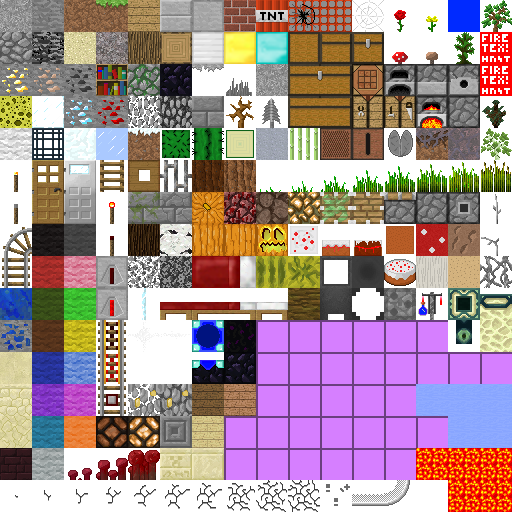
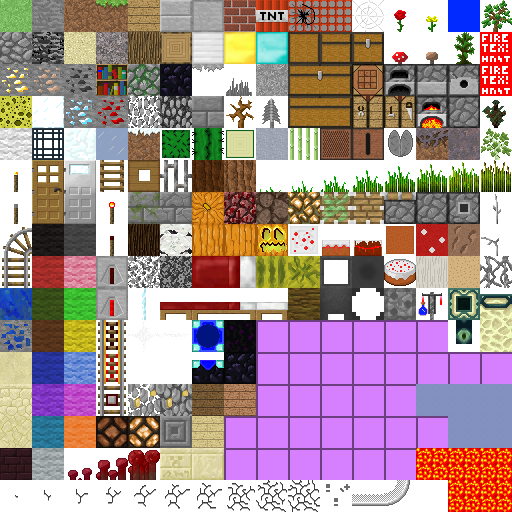
pruce it up, hey

Changed region(s): [[0.8125, 0.75, 1.0, 0.875], [0.1875, 0.25, 0.25, 0.3125], [0.0, 0.0, 0.0625, 0.0625]]

diff --git a/src/main.js b/src/main.js
@@ -1,6 +1,6 @@
 import GridAxisShader from "../shaders/GridAxisShader.js";
 import SkyboxShader from "../shaders/SkyboxShader.js";
-import FogShader from "../shaders/FogShader.js";
+import VoxelShader from "../shaders/VoxelShader.js";
 
 import CameraController from "../controls/CameraController.js";
 import KeyboardControls from "../controls/KeyboardControls.js";
@@ -28,7 +28,7 @@ const controls = {
 };
 
 // Shaders
-const fogShader = new FogShader(gl, camera.projectionMatrix);
+const voxelShader = new VoxelShader(gl, camera.projectionMatrix);
 const gridAxis = GridAxis.create(gl);
 const gridShader = new GridAxisShader(gl, camera.projectionMatrix);
 const skybox = Cube.create(gl, "Skybox", 300, 300, 300);
@@ -57,12 +57,12 @@ function preload() {
   return Promise.all(
     [
       { name: "blocks", src: "res/mine.png", type: "tex" },
-      { name: "cube0", src: "res/whirlpool_rt.png", type: "img" },
-      { name: "cube1", src: "res/whirlpool_lf.png", type: "img" },
-      { name: "cube2", src: "res/whirlpool_up.png", type: "img" },
-      { name: "cube3", src: "res/whirlpool_dn.png", type: "img" },
-      { name: "cube4", src: "res/whirlpool_bk.png", type: "img" },
-      { name: "cube5", src: "res/whirlpool_ft.png", type: "img" }
+      { name: "cube0", src: "res/mc_rt.png", type: "img" },
+      { name: "cube1", src: "res/mc_lf.png", type: "img" },
+      { name: "cube2", src: "res/mc_up.png", type: "img" },
+      { name: "cube3", src: "res/mc_dn.png", type: "img" },
+      { name: "cube4", src: "res/mc_bk.png", type: "img" },
+      { name: "cube5", src: "res/mc_ft.png", type: "img" }
     ].map(
       ({ name, src, type }) =>
         new Promise(res => {
@@ -87,7 +87,7 @@ function initialize(res) {
   const cubeImg = imgs.filter(i => i.name.startsWith("cube")).map(i => i.img);
   glUtils.loadCubeMap(gl, "skybox", cubeImg);
   skyboxShader.setCube(glUtils.textures.skybox);
-  fogShader.setTexture(glUtils.textures.blocks);
+  voxelShader.setTexture(glUtils.textures.blocks);
 
   // Initialize webgl
   gl.clearColor(1, 1, 1, 1.0);
@@ -157,7 +157,7 @@ function loopy(t, last = t) {
           block.x + xo,
           block.y + yo,
           block.z + zo,
-          isAddBlock ? 2 : 0
+          isAddBlock ? 3 : 0
         );
         if (ch) ch.rechunk();
       }
@@ -182,13 +182,13 @@ function loopy(t, last = t) {
     .setCamera(camera.view)
     .renderModel(gridAxis.preRender());
 
-  fogShader
+  voxelShader
     .activate()
     .preRender()
     .setCamera(camera.view)
     .renderModel(cube.preRender());
 
   world.chunks.forEach(cr => {
-    fogShader.renderModel(cr.preRender());
+    voxelShader.renderModel(cr.preRender());
   });
 }

diff --git a/src/World.js b/src/World.js
@@ -57,9 +57,10 @@ class World {
     chunks.forEach(cr => {
       const { chunk } = cr;
       const AIR = 0;
+      const GRASS = 1;
       const STONE = 2;
-      const WOOD = 1;
-      const BOOKS = 3;
+      const TREE = 3;
+      const BOOKS = 4;
       chunk.cells = chunk.cells.map((c, i) => {
         let x = i % chunk.x + chunk.xo;
         let z = ((i / chunk.x) | 0) % chunk.z + chunk.zo;
@@ -68,9 +69,9 @@ class World {
         if (y < 1) return STONE; // Ground
         const v = simplex.noise3D(x / 10, y / 10, z / 10) * 8;
         const solid = Math.max(0, Math.min(1, Math.floor(v)));
-        const isBooks = (v | 0) % 3 == 2;
-        const isWood = (v / 3) | (0 == 1);
-        return !solid ? AIR : isWood ? WOOD : isBooks ? BOOKS : STONE;
+        const isStone = (v / 3) | (0 == 1);
+        const isWood = (v | 0) % 3 == 2;
+        return !solid ? AIR : isStone ? STONE : isWood ? TREE : GRASS;
       });
       cr.rechunk();
     });

diff --git a/shaders/VoxelShader.js b/shaders/VoxelShader.js
@@ -31,14 +31,16 @@ const fss = `#version 300 es
   in float occ;
   out vec4 col;
   void main() {
+      float near = 20.0;
+      float far = 75.0;
       float dist = gl_FragCoord.z / gl_FragCoord.w;
-      float fog = 1.0 - (clamp((25.0 - dist) / (25.0 - 1.0), 0.0, 1.0));
-      vec4 fogmix = mix(texture(tex0, texCoord), vec4(0.0, 0.0, 0.0, 1.0), fog);
+      float fog = 1.0 - (clamp((far - dist) / (far - near), 0.0, 1.0));
+      vec4 fogmix = mix(texture(tex0, texCoord), vec4(135.0/255.0, 165.0/255.0, 1.0, 1.0), fog);
       col= vec4(fogmix.rgb * occ, 1.0);
   }
 `;
 
-class FogShader extends Shader {
+class VoxelShader extends Shader {
   constructor(gl, pMatrix) {
     super(gl, vss, fss);
     this.setPerspective(pMatrix);
@@ -75,4 +77,4 @@ class FogShader extends Shader {
   }
 }
 
-export default FogShader;
+export default VoxelShader;

diff --git a/models/ChunkModel.js b/models/ChunkModel.js
@@ -48,6 +48,7 @@ class ChunkModel extends Model {
       let yf;
       const faceUVs = [
         [4, 1, 4, 1, 4, 1, 4, 1, 5, 1, 5, 1],
+        [3, 0, 3, 0, 3, 0, 3, 0, 0, 0, 2, 0],
         [0, 1, 0, 1, 0, 1, 0, 1, 0, 1, 0, 1],
         [4, 0, 3, 2, 4, 0, 3, 2, 4, 0, 4, 0]
       ];

diff --git a/index.html b/index.html
@@ -15,10 +15,10 @@
         left: 5px;
         font-family: sans-serif;
         font-size: 9pt;
-        color: #888;
+        color: #ddd;
       }
       a {
-        color: #686;
+        color: #242;
       }
       #cross {
         position: absolute;

diff --git a/shaders/SkyboxShader.js b/shaders/SkyboxShader.js
@@ -23,7 +23,7 @@ const fss = `#version 300 es
 
   out vec4 col;
   void main() {
-    col = texture(sky, texCoord) * vec4(0.3, 0.3, 0.3, 1.0);
+    col = texture(sky, texCoord);// * vec4(0.3, 0.3, 0.3, 1.0);
   }
 `;
 
